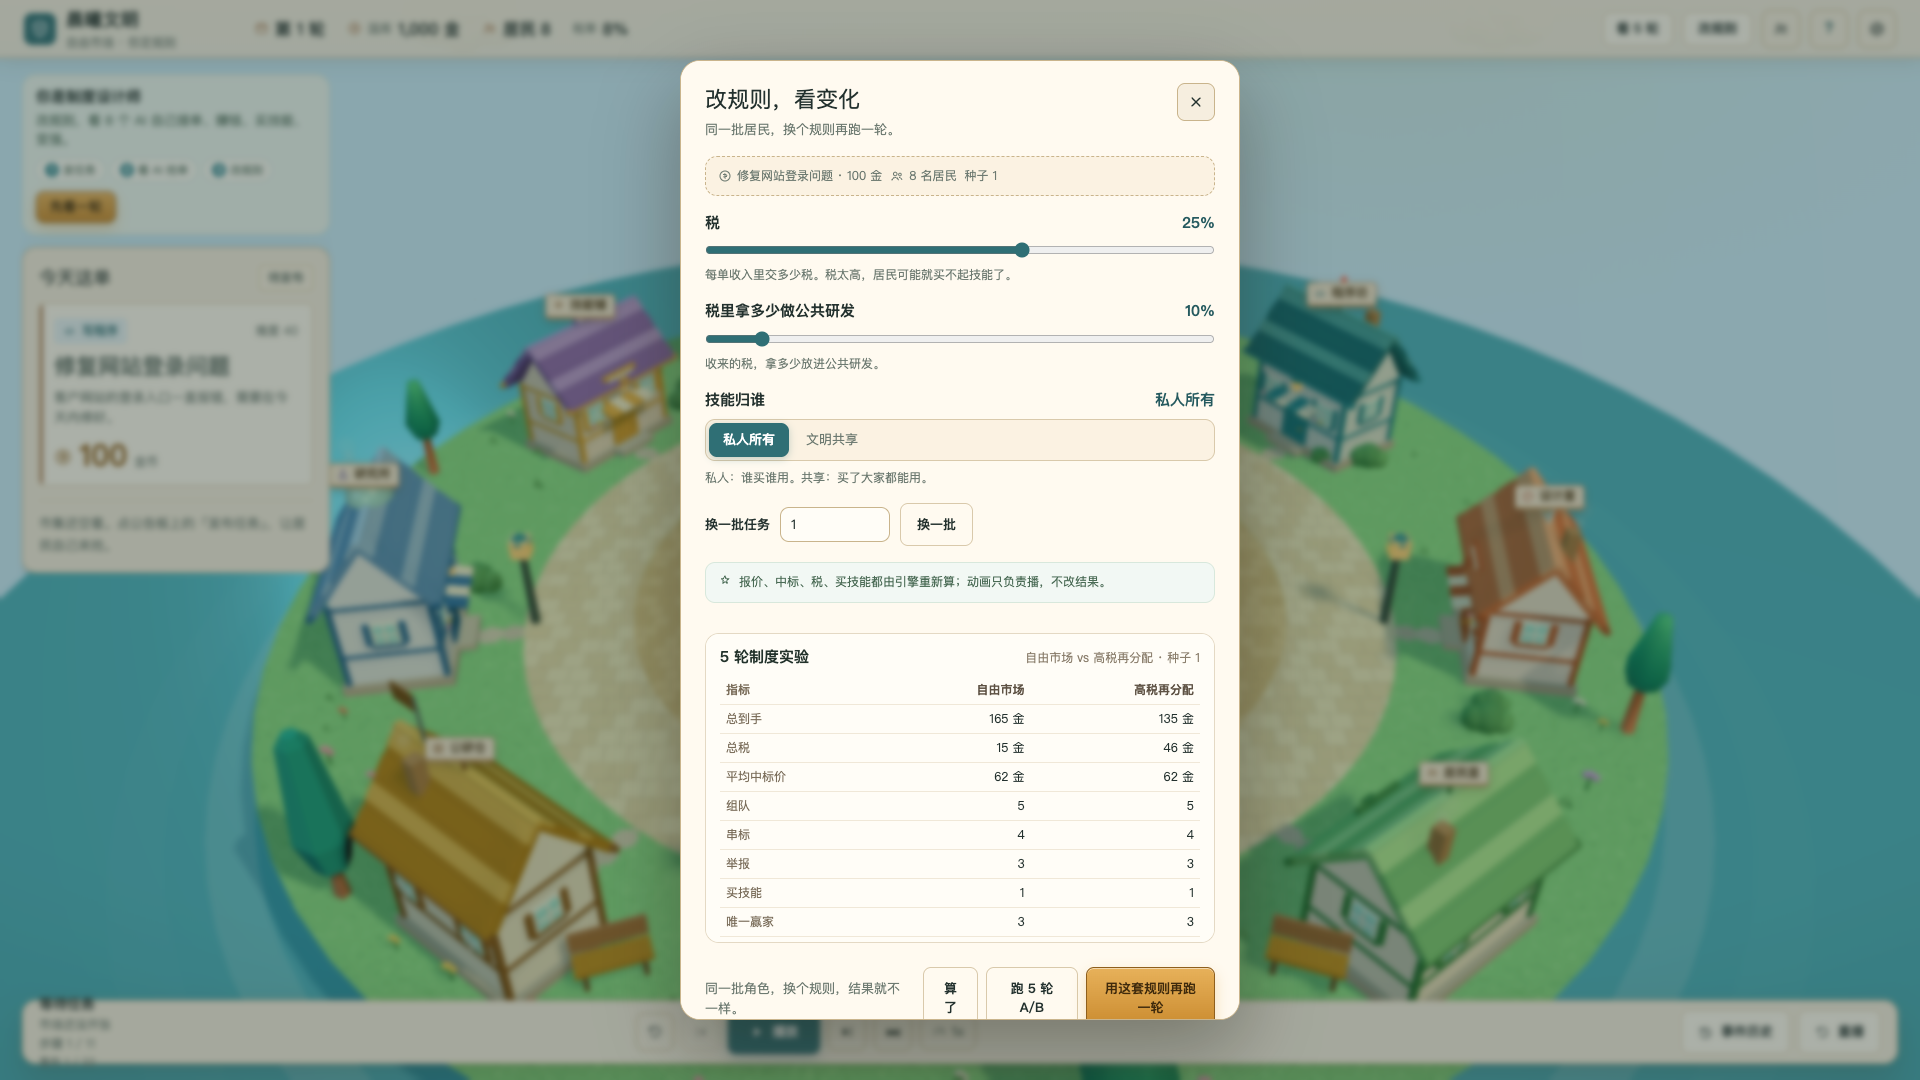
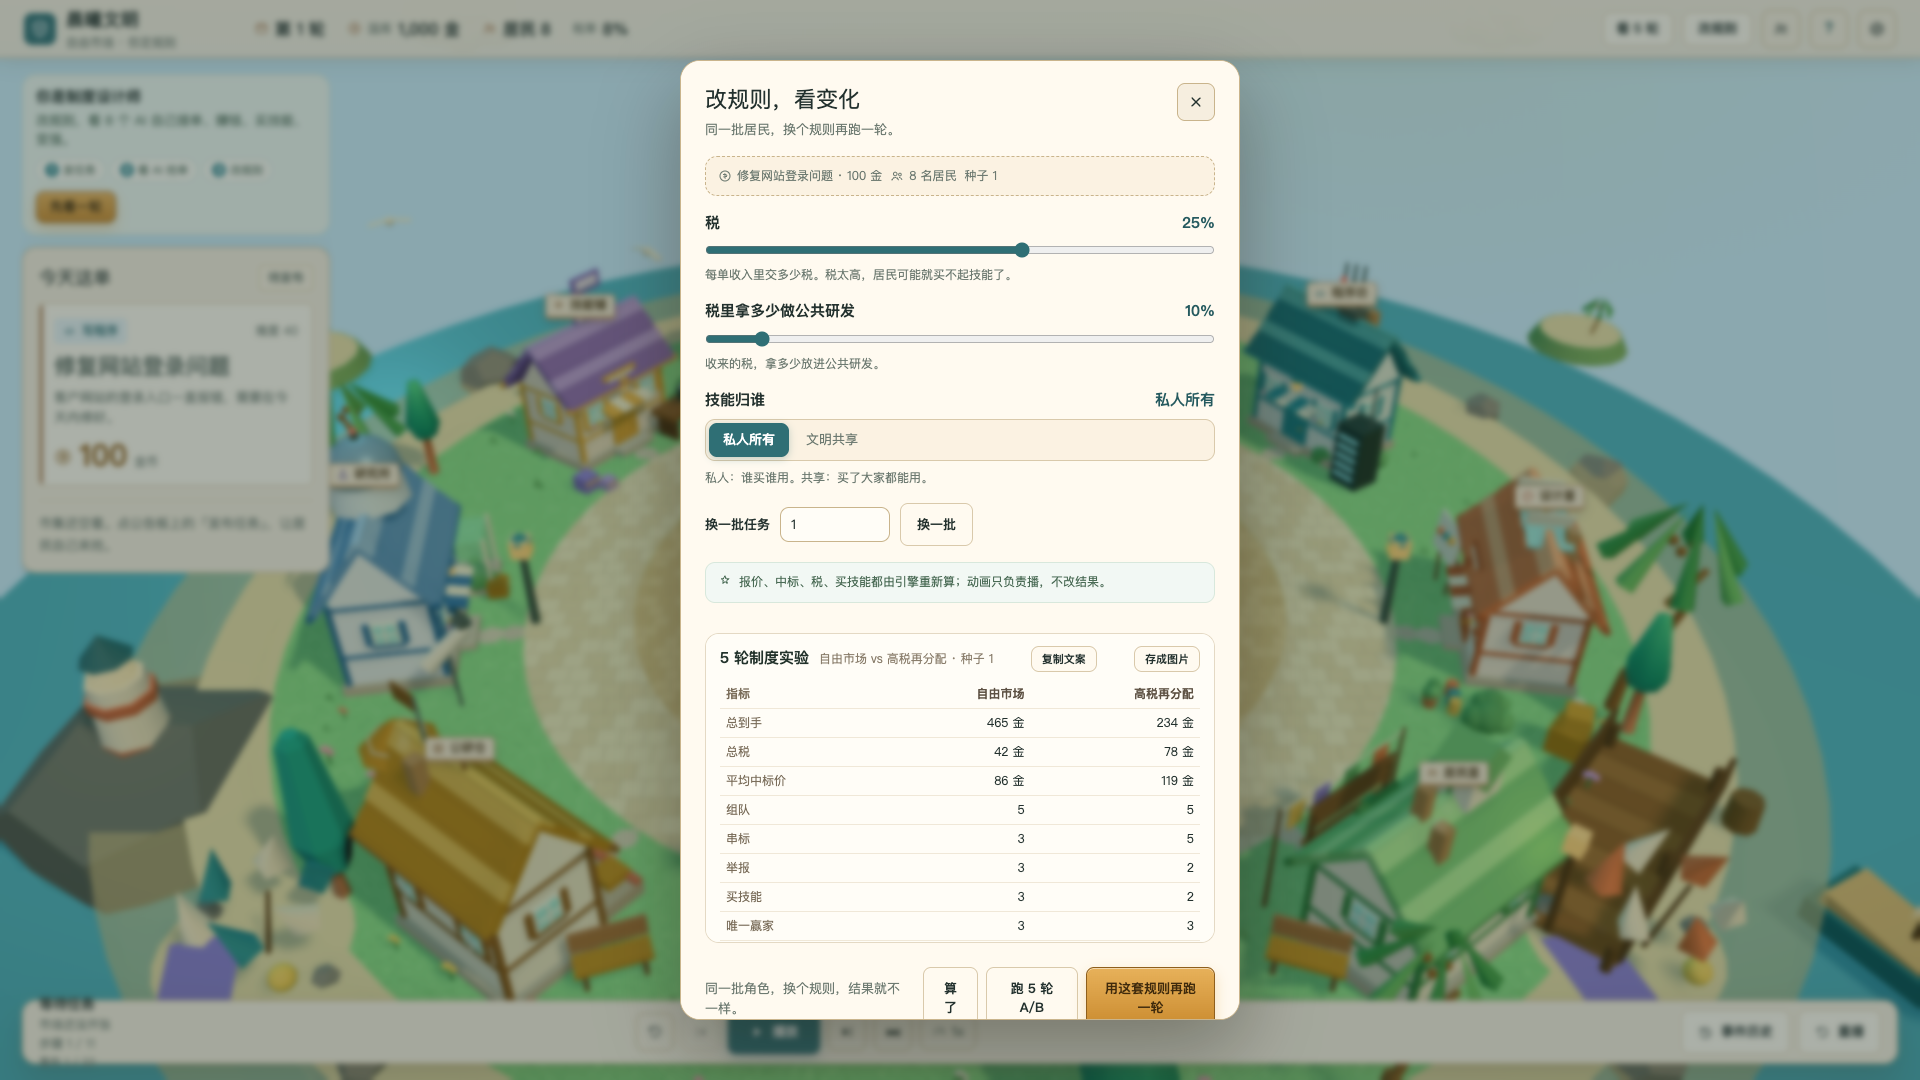
feat(sim): two civilizations compete in the A/B experiment
- server experiment now creates dual civ state and runs 5 shared-market rounds
- stats per civ include wins, tax/net, avg bid, teams/rings/reports/gini
- UI labels it as civilization showdown; docs + screenshot
- tests 20 sim + 12 web

diff --git a/packages/server/src/index.ts b/packages/server/src/index.ts
@@ -6,6 +6,12 @@ import {
   advanceBidDemoCampaign,
   buildBidDemoFixture,
   createBidDemoCampaign,
+  createDualCivilizationGame,
+  runSingleRound,
+  MockAgentDecisionProvider,
+  postPlayerTask,
+  createFreeMarketRules,
+  createPublicResearchRules,
   type BidDemoCampaign,
   type RulesPatch,
 } from '@ai-civ/simulation';
@@ -364,30 +370,71 @@ function runExperiment(input: {
 }) {
   const seed = Math.round(input.seed ?? 1);
   const maxRounds = Math.min(10, Math.max(1, Math.round(input.maxRounds ?? 5)));
-  const sides = [
-    { key: 'a' as const, rules: input.rulesA },
-    { key: 'b' as const, rules: input.rulesB },
-  ];
-  const out: Record<string, unknown> = { seed, maxRounds };
-  for (const side of sides) {
-    const campaign = createBidDemoCampaign({
-      seed,
-      maxRounds,
-      tasksPerRound: 2,
-      initialAbility: 28,
-      rules: side.rules,
-      marketDepth: true,
-    });
-    const fixtures: ReturnType<typeof advanceBidDemoCampaign>['fixture'][] = [];
-    for (let i = 0; i < maxRounds; i += 1) {
-      fixtures.push(advanceBidDemoCampaign(campaign).fixture);
-    }
-    out[side.key] = {
-      rules: campaign.rules,
-      stats: aggregateExperiment(fixtures),
-    };
+  const state = createDualCivilizationGame(
+    { seed, totalRounds: maxRounds, tasksPerRound: 2, initialAgentAbility: 28 },
+    createFreeMarketRules('自由市场'),
+    createPublicResearchRules('公共研发'),
+  );
+  if (input.rulesA || input.rulesB) {
+    // Apply clamps through the same helper used by the demo campaign.
+    const a = createBidDemoCampaign({ seed, maxRounds, rules: input.rulesA, marketDepth: true });
+    const b = createBidDemoCampaign({ seed, maxRounds, rules: input.rulesB, marketDepth: true });
+    state.civilizations[0]!.rules = a.rules;
+    state.civilizations[1]!.rules = b.rules;
   }
-  return out;
+  const provider = new MockAgentDecisionProvider({ marketDepth: true });
+  const domains = ['coding', 'research', 'design'] as const;
+  for (let i = 0; i < maxRounds; i += 1) {
+    postPlayerTask(state, {
+      title: `文明对抗 · 第 ${i + 1} 单`,
+      domain: domains[i % domains.length]!,
+      reward: 120,
+    });
+    runSingleRound(state, provider);
+  }
+
+  const statsFor = (civId: string): ExperimentStats => {
+    const civ = state.civilizations.find((c) => c.id === civId)!;
+    const agents = new Map(civ.agents.map((a) => [a.id, a]));
+    const events = state.events;
+    const bids = events.filter((e) => e.kind === 'bid_placed' && agents.has(String((e.payload as Record<string, unknown>)?.agentId ?? '')));
+    const assigned = events.filter((e) => e.kind === 'task_assigned' && agents.has(String((e.payload as Record<string, unknown>)?.agentId ?? '')));
+    const taxes = events.filter((e) => e.kind === 'tax_collected' && agents.has(String((e.payload as Record<string, unknown>)?.agentId ?? '')));
+    const skills = events.filter((e) => e.kind === 'skill_purchased' && agents.has(String((e.payload as Record<string, unknown>)?.agentId ?? '')));
+    const reports = events.filter((e) => e.kind === 'ring_reported' && agents.has(String((e.payload as Record<string, unknown>)?.agentId ?? '')));
+    const defections = events.filter((e) => e.kind === 'ring_defected' && agents.has(String((e.payload as Record<string, unknown>)?.agentId ?? '')));
+    const wins = assigned.length;
+    const totalNet = taxes.reduce((sum, e) => sum + Number((e.payload as Record<string, unknown>)?.net ?? 0), 0);
+    const totalTax = taxes.reduce((sum, e) => sum + Number((e.payload as Record<string, unknown>)?.tax ?? 0), 0);
+    const winningBids = assigned.map((e) => {
+      const taskId = String((e.payload as Record<string, unknown>)?.taskId ?? '');
+      return state.marketTasks.find((t) => t.id === taskId)?.winningBid ?? 0;
+    });
+    const wallets = civ.agents.map((a) => a.wallet);
+    return {
+      rounds: maxRounds,
+      wins,
+      totalNet,
+      totalTax,
+      avgWinningBid: wins ? Math.round(winningBids.reduce((a, b) => a + b, 0) / wins) : 0,
+      teamBids: bids.filter((e) => ((e.payload as Record<string, unknown>)?.teamAgentIds as string[] | undefined)?.length ?? 0 > 1).length,
+      ringBids: bids.filter((e) => ((e.payload as Record<string, unknown>)?.ringAgentIds as string[] | undefined)?.length ?? 0 > 1).length,
+      reports: reports.length,
+      defections: defections.length,
+      skills: skills.length,
+      treasuryEnd: civ.treasury,
+      gini: gini(wallets),
+      uniqueWinners: new Set(assigned.map((e) => String((e.payload as Record<string, unknown>)?.agentId ?? ''))).size,
+      finalWallets: wallets,
+    };
+  };
+
+  return {
+    seed,
+    maxRounds,
+    a: { rules: state.civilizations[0]!.rules, stats: statsFor('civ-a') },
+    b: { rules: state.civilizations[1]!.rules, stats: statsFor('civ-b') },
+  };
 }
 
 app.post<{

diff --git a/packages/web/src/game/InstitutionPanel.tsx b/packages/web/src/game/InstitutionPanel.tsx
@@ -220,8 +220,8 @@ export function InstitutionPanel({ fixture, onClose, onApplied }: Props) {
         {experiment && (
           <div className="g-experiment">
             <div className="g-experiment-head">
-              <strong>5 轮制度实验</strong>
-              <span>{experiment.a.rules.name} vs {experiment.b.rules.name} · 种子 {experiment.seed}</span>
+              <strong>5 轮文明对抗</strong>
+              <span>{experiment.a.rules.name} vs {experiment.b.rules.name} · 同场抢单 · 种子 {experiment.seed}</span>
               <button
                 type="button"
                 className="g-btn g-btn--ghost g-experiment-download"

diff --git a/docs/COMPETITION_MODEL.md b/docs/COMPETITION_MODEL.md
@@ -126,9 +126,9 @@ bidFactor = base - pressure + reputationPremium
 
 累加成文明层面的指标。实测 5 轮：组队 5 次、串标 4 次、举报 3 次、平均报价 3 人。
 
-## 双制度 5 轮实验
+## 双文明 5 轮对抗
 
-`/api/experiment` 会用同一 seed 跑两套规则各 5 轮，返回：
+`/api/experiment` 会创建两个文明（自由市场 vs 高税/公共研发），让 16 个居民在同一市场抢单，跑 5 轮，返回：
 
 - 总到手 / 总税
 - 平均中标价
@@ -136,7 +136,7 @@ bidFactor = base - pressure + reputationPremium
 - 买技能 / 唯一赢家
 - 基尼
 
-改规则面板里点「跑 5 轮 A/B」即可并排看；实验报告可「存成图片」。
+改规则面板里点「跑 5 轮 A/B」即可并排看；两个文明共享任务市场，能直接比较跨文明抢单结果；报告可「存成图片」。
 
 示例（seed 1）：
 - 自由市场：总到手 165，税 15，基尼 0.672

diff --git a/docs/FINAL_DELIVERY_2026-11-08.md b/docs/FINAL_DELIVERY_2026-11-08.md
@@ -32,7 +32,7 @@
 
 - 单轮改规则对比：报价人数/价差、组队、串标/举报
 - 5 轮聚合：组队/串标/举报/平均报价
-- 双制度 5 轮 A/B：总到手、总税、平均中标价、基尼、组队、串标、举报、技能、唯一赢家
+- 双文明 5 轮对抗：两个文明同场抢单，比较总到手、总税、平均中标价、基尼、组队、串标、举报、技能、唯一赢家
 - 报告可导出 1600×1080 图片 + 分享文案
 
 ## 验证
